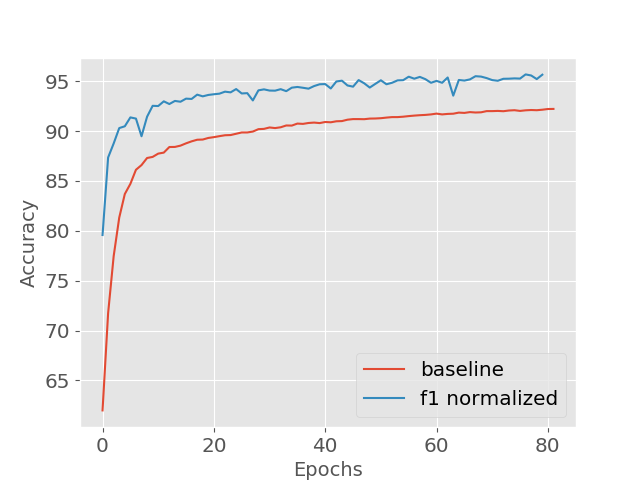
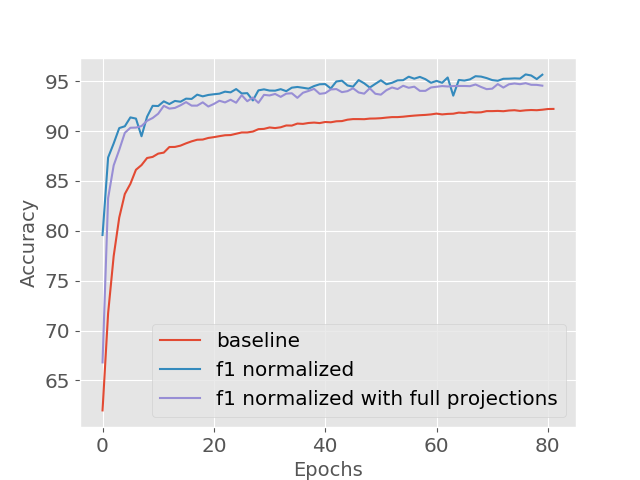
done comparing f1 with fp

diff --git a/scripts/mnist_ffnet_comparison/plot.py b/scripts/mnist_ffnet_comparison/plot.py
@@ -26,10 +26,17 @@ if __name__ == "__main__":
         for row in csv_reader:
             f1_ys.append(float(row[1]))
 
+    f1_fp_ys = []
+    with open(Path("./epochs_accuracy_f1_fp")) as csv_file:
+        csv_reader = csv.reader(csv_file, delimiter=',')
+        for row in csv_reader:
+            f1_fp_ys.append(float(row[1]))
+
     plt.style.use('ggplot')
     fig, ax = plt.subplots()
     ax.plot(baseline_ys, label="baseline")
     ax.plot(f1_ys, label="f1 normalized")
+    ax.plot(f1_fp_ys, label="f1 normalized with full projections")
     ax.set_xlabel("Epochs", fontsize=14)
     ax.set_ylabel("Accuracy", fontsize=14)
     ax.legend()
